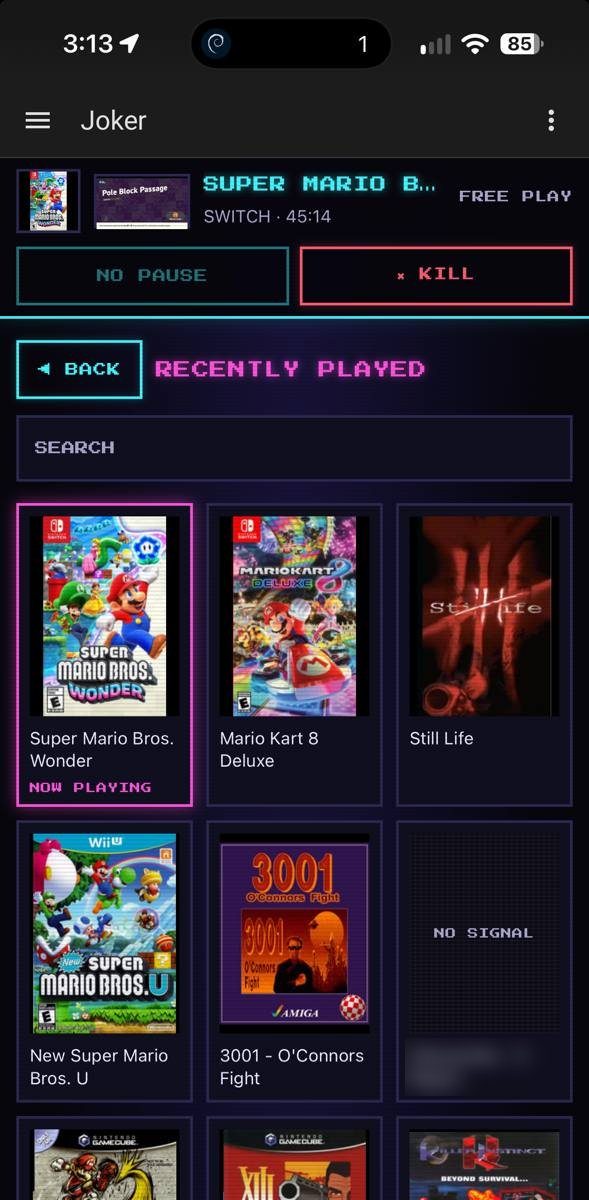
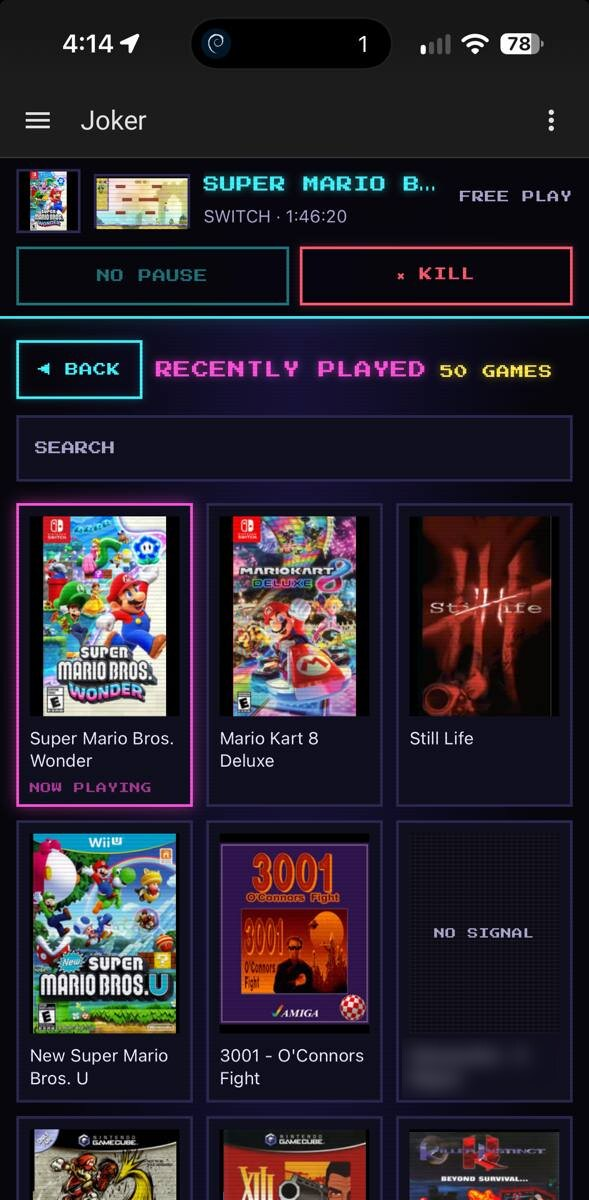
Docs: a new recently played screenshot

diff --git a/README.md b/README.md
@@ -9,7 +9,7 @@ the TV live, quit a stuck game, and set daily playtime limits.
   <img src="docs/page-games.jpg" width="300" alt="The Batocera page on a phone: nothing playing, the box's systems as tiles">
   <img src="docs/page-live.webp" width="300" alt="The Batocera page on a phone: Super Mario Bros. Wonder playing, the TV shown live at about one frame a second">
   <img src="docs/page-home.jpg" width="300" alt="The Batocera page on a phone: a game playing, 11579 games on the box, the filters at the top of the home, the systems by name">
-  <img src="docs/page-recent.jpg" width="300" alt="The Batocera page on a phone: the recently played games, the one playing now marked">
+  <img src="docs/page-recent.jpg" width="300" alt="The Batocera page on a phone: the 50 recently played games, the one playing now marked; one title blurred">
   <img src="docs/page-folders.jpg" width="300" alt="The Batocera page on a phone: Nintendo 64, 259 games, its ROMs sorted into folders by genre">
   <img src="docs/page-filters.jpg" width="300" alt="The Batocera page on a phone: the home filtered to 1980s platform games and searched for mario, 9 found, each tile naming its system">
   <img src="docs/page-launch.jpg" width="300" alt="The Batocera page on a phone: Metal Sonic Rebooted about to start, with its year, genre, players, rating, authors and description, quitting the game playing now">
